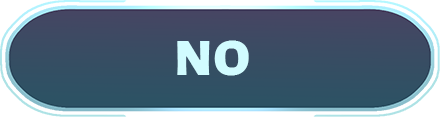
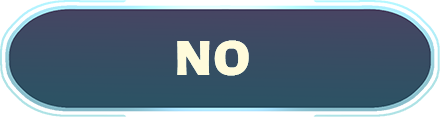
Added confirmation pop ups for quitting
Also updated some button assets

confirmation pop ups not added yet for win/lose screens
buttons assets in win/lose also partially updated only for now

Changed region(s): [[0.3841, 0.3333, 0.5909, 0.6667]]

diff --git a/MyoonchiDiner/MyoonchiDinerBindings.cpp b/MyoonchiDiner/MyoonchiDinerBindings.cpp
@@ -352,6 +352,11 @@ namespace {
 		}
 	};
 
+	enum class QuitPopupYesAction {
+		QuitApplication,
+		ReturnToMainMenu
+	};
+
 	struct QuitPopupState {
 		bool shown_ = false;
 		std::vector<int> objectIDs_{};
@@ -362,8 +367,10 @@ namespace {
 		bool mouseHeld_ = false;
 		bool yesHovered_ = false;
 		bool noHovered_ = false;
+		QuitPopupYesAction yesAction_ = QuitPopupYesAction::QuitApplication;
 
-		static constexpr const char* kPopupTexture_ = "../assets/quit_popup.png";
+		static constexpr const char* kQuitPopupTexture_ = "../assets/quit_popup.png";
+		static constexpr const char* kReturnPopupTexture_ = "../assets/return_popup.png";
 
 		static constexpr const char* kYesTexture_ = "../assets/yes_s.png";
 		static constexpr const char* kYesHoverTexture_ = "../assets/yes_h.png";
@@ -432,11 +439,12 @@ namespace {
 			noHovered_ = false;
 		}
 
-		void Show(Scene& scene) {
+		void Show(Scene& scene, QuitPopupYesAction yesAction) {
 			if (shown_) {
 				return;
 			}
 			shown_ = true;
+			yesAction_ = yesAction;
 
 			const glm::vec3 center{
 				static_cast<float>(GraphicsEngine::kRefW) * 0.5f,
@@ -444,8 +452,12 @@ namespace {
 				0.0f
 			};
 
+			const char* popupTexture = (yesAction_ == QuitPopupYesAction::ReturnToMainMenu)
+				? kReturnPopupTexture_
+				: kQuitPopupTexture_;
+
 			if (GameObject* popup = scene.SpawnStaticSprite(
-				kPopupTexture_,
+				popupTexture,
 				center,
 				glm::vec2(1152.0f, 648.0f),
 				kUiLayer_)) {
@@ -543,8 +555,17 @@ namespace {
 
 			if (yesButtonID_ >= 0 && IsPointInObject(scene, yesButtonID_, mouseWorld)) {
 				input.ConsumeNextMousePress(GLFW_MOUSE_BUTTON_LEFT);
-				if (GLFWwindow* win = glfwGetCurrentContext()) {
-					glfwSetWindowShouldClose(win, GLFW_TRUE);
+				
+				if (yesAction_ == QuitPopupYesAction::ReturnToMainMenu) {
+					Clear(scene);
+					scene.HidePauseOverlay();
+					scene.RequestResumeFromPauseOverlay();
+					scene.StartLevelTransition(MyoonchiPaths::Levels::MAIN_MENU, false);
+				}
+				else {
+					if (GLFWwindow* win = glfwGetCurrentContext()) {
+						glfwSetWindowShouldClose(win, GLFW_TRUE);
+					}
 				}
 				return;
 			}
@@ -560,8 +581,8 @@ namespace {
 
 	class QuitPopupOpenButtonLogic final : public GameObjectLogic {
 	public:
-		explicit QuitPopupOpenButtonLogic(int ownerID)
-			: GameObjectLogic(ownerID) {
+		explicit QuitPopupOpenButtonLogic(int ownerID, QuitPopupYesAction yesAction)
+			: GameObjectLogic(ownerID), yesActionOnOpen_(yesAction) {
 		}
 
 		void Update(float dt, Scene& scene, InputManager& input) override {
@@ -607,7 +628,7 @@ namespace {
 
 			if (hoveredNow && clickEdge) {
 				input.ConsumeNextMousePress(GLFW_MOUSE_BUTTON_LEFT);
-				gQuitPopup.Show(scene);
+				gQuitPopup.Show(scene, yesActionOnOpen_);
 			}
 		}
 
@@ -641,6 +662,7 @@ namespace {
 		bool hovered_ = false;
 		std::string normalTexturePath_{};
 		std::string hoverTexturePath_{};
+		QuitPopupYesAction yesActionOnOpen_ = QuitPopupYesAction::QuitApplication;
 	};
 }
 
@@ -2026,7 +2048,7 @@ namespace {
 				scene.GetLogicManager().AddLogic<HowToPlayButtonLogic>(id);
 			}},
 			{ "btn_quit", [](Scene& scene, int id) {
-				scene.GetLogicManager().AddLogic<QuitPopupOpenButtonLogic>(id);
+				scene.GetLogicManager().AddLogic<QuitPopupOpenButtonLogic>(id, QuitPopupYesAction::QuitApplication);
 			}},
 			{ "btn_next_level", [](Scene& scene, int id) {
 				const bool goMainMenu = Economy::gWinScreenNextGoesToMainMenu;
@@ -2092,7 +2114,7 @@ namespace {
 			logicManager.AddLogic<HowToPlayButtonLogic>(id);
 		}
 		else if (action == "quit") {
-			logicManager.AddLogic<QuitPopupOpenButtonLogic>(id);
+			logicManager.AddLogic<QuitPopupOpenButtonLogic>(id, QuitPopupYesAction::ReturnToMainMenu);
 		}
 	}
 
